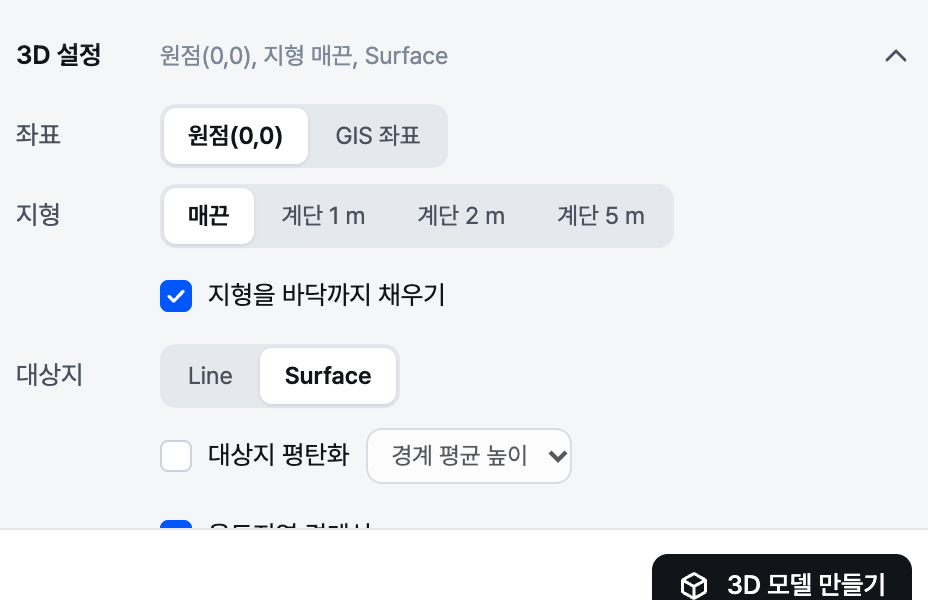
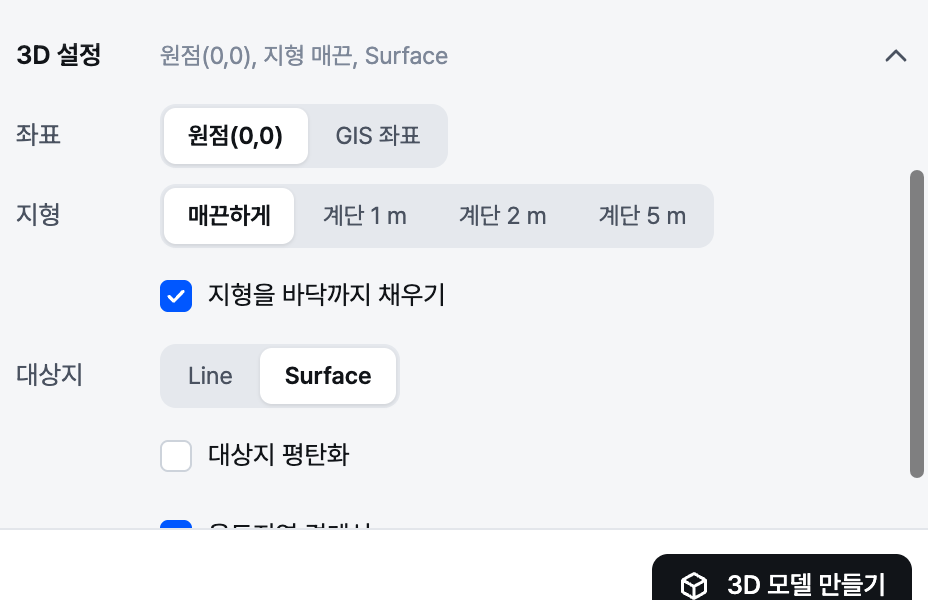
3D 설정: 지형 [매끈] → [매끈하게], 대상지 평탄화 높이 기준은 켰을 때만 보인다

Changed region(s): [[0.25, 0.3, 0.75, 0.42], [0.4062, 0.69, 0.625, 0.81], [0.9688, 0.27, 1.0, 0.81]]

diff --git a/scripts/site_ui.html b/scripts/site_ui.html
@@ -881,13 +881,13 @@ function settingsHtml(open) {
       SEG("placement", "origin", tr("원점(0,0)"), (o.placement !== "world" ? " checked" : "") + ' title="' + tr(PLACEMENT_TITLE.origin) + '"') +
       SEG("placement", "world", tr("GIS 좌표"), (o.placement === "world" ? " checked" : "") + ' title="' + tr(PLACEMENT_TITLE.world) + '"') + "</div>")) +
     row(tr("지형"), '<div class="seg" role="radiogroup" aria-label="' + tr("지형 표현") + '">' + [0, 1, 2, 5].map(function (step) {
-      return SEG("terrain_step", step, step ? tr("계단 {0} m", step) : tr("매끈"), (+(o.terrain_step || 0) === step ? " checked" : "") + (step ? ' title="' + tr("등고 모형처럼 단마다 평평한 지형") + '"' : ""));
+      return SEG("terrain_step", step, step ? tr("계단 {0} m", step) : tr("매끈하게"), (+(o.terrain_step || 0) === step ? " checked" : "") + (step ? ' title="' + tr("등고 모형처럼 단마다 평평한 지형") + '"' : ""));
     }).join("") + "</div>") +
     row("", '<label class="chk"><input type="checkbox" name="terrain_block"' + (o.terrain_block !== false ? " checked" : "") + ">" + tr("지형을 바닥까지 채우기") + "</label>") +
     (canSite ? row(tr("대상지"), '<div class="seg" role="radiogroup" aria-label="' + tr("대상지 바닥면") + '">' + SEG("site_output", "curve", tr("Line"), (o.site_output !== "mesh" ? " checked" : "") + ' title="' + tr("대상지 경계선만 냅니다") + '"') +
         SEG("site_output", "mesh", tr("Surface"), (o.site_output === "mesh" ? " checked" : "") + ' title="' + tr("경계선과 함께, 대상지 경계로 자른 지형을 따로 냅니다") + '"') + "</div>") +
       row("", '<label class="chk"><input type="checkbox" name="flatten_site"' + (o.flatten_site ? " checked" : "") + ">" + tr("대상지 평탄화") + "</label>" +
-        '<select class="sm" name="flatten_level" id="flatten_level" aria-label="' + tr("평평하게 할 높이") + '"' + (o.flatten_site ? "" : " disabled") + ">" +
+        '<select class="sm" name="flatten_level" id="flatten_level" aria-label="' + tr("평평하게 할 높이") + '"' + (o.flatten_site ? "" : " hidden") + ">" +
         [["mean", "경계 평균 높이"], ["min", "경계 최저 높이"], ["max", "경계 최고 높이"]].map(function (x) { return '<option value="' + x[0] + '"' + (o.flatten_level === x[0] ? " selected" : "") + ">" + tr(x[1]) + "</option>"; }).join("") + "</select>") : "") +
     (glob ? "" : row("", '<label class="chk" title="' + tr("용도지역, 지구, 구역, 도시계획시설, 지구단위계획 경계") + '"><input type="checkbox" name="include_zoning"' + (o.include_zoning ? " checked" : "") + ">" + tr("용도지역 경계선") + "</label>")) +
     "</div></details>";
@@ -903,7 +903,7 @@ function updateSummaries() {
     s.textContent = p.join(", ");
   }
   var rh = $("radius_hint"); if (rh) rh.hidden = !(sizeOf(o) > 1000);
-  var fl = $("flatten_level"); if (fl) fl.disabled = !o.flatten_site;
+  var fl = $("flatten_level"); if (fl) fl.hidden = !o.flatten_site;   // 평탄화를 켰을 때만 높이 기준이 보인다
   var ba = $("bm_auto"); if (ba) ba.innerHTML = autoScaleHtml();
   var ss = $("sheets_count"); if (ss) ss.textContent = tr("{0}장", sheetPick().length);
   var mb = $("make2d_btn");

diff --git a/docs/ui_spec.md b/docs/ui_spec.md
@@ -72,10 +72,10 @@
 | 항목 | 키 | 선택지 | 기본 | 보이는 때 |
 |---|---|---|---|---|
 | 좌표 | `placement` | [원점(0,0)] [GIS 좌표] | 원점(0,0) | 대상지가 한국 안 |
-| 지형 | `terrain_step` | 매끈 / 계단 1·2·5 m(등고 모형) | 매끈 | 늘 |
+| 지형 | `terrain_step` | 매끈하게 / 계단 1·2·5 m(등고 모형) | 매끈하게 | 늘 |
 | 지형을 바닥까지 채우기 | `terrain_block` | 체크박스(지형 옆면·바닥까지 덩어리로). 끄면 요약에 '지형 표면만' | 켬 | 늘 |
 | 대상지 | `site_output` | [Line] [Surface](경계선과 함께 경계로 자른 지형) | 방식 기본(필지 바닥면, 구역 경계선) | 필지·구역 |
-| 대상지 평탄화 | `flatten_site`·`flatten_level` | 끔 / 경계 평균·최저·최고 높이로 | 끔 | 필지·구역 |
+| 대상지 평탄화 | `flatten_site`·`flatten_level` | 끔 / 경계 평균·최저·최고 높이로(높이 기준 선택칸은 켰을 때만 보인다) | 끔 | 필지·구역 |
 | 용도지역 경계선 | `include_zoning` | 넣기 / 빼기 | 넣기 | Korea |
 
 설명 문장은 달지 않는다. 항목 이름이 곧 설명이 되게 짓는다(DESIGN.md "라벨은 한 번만").
